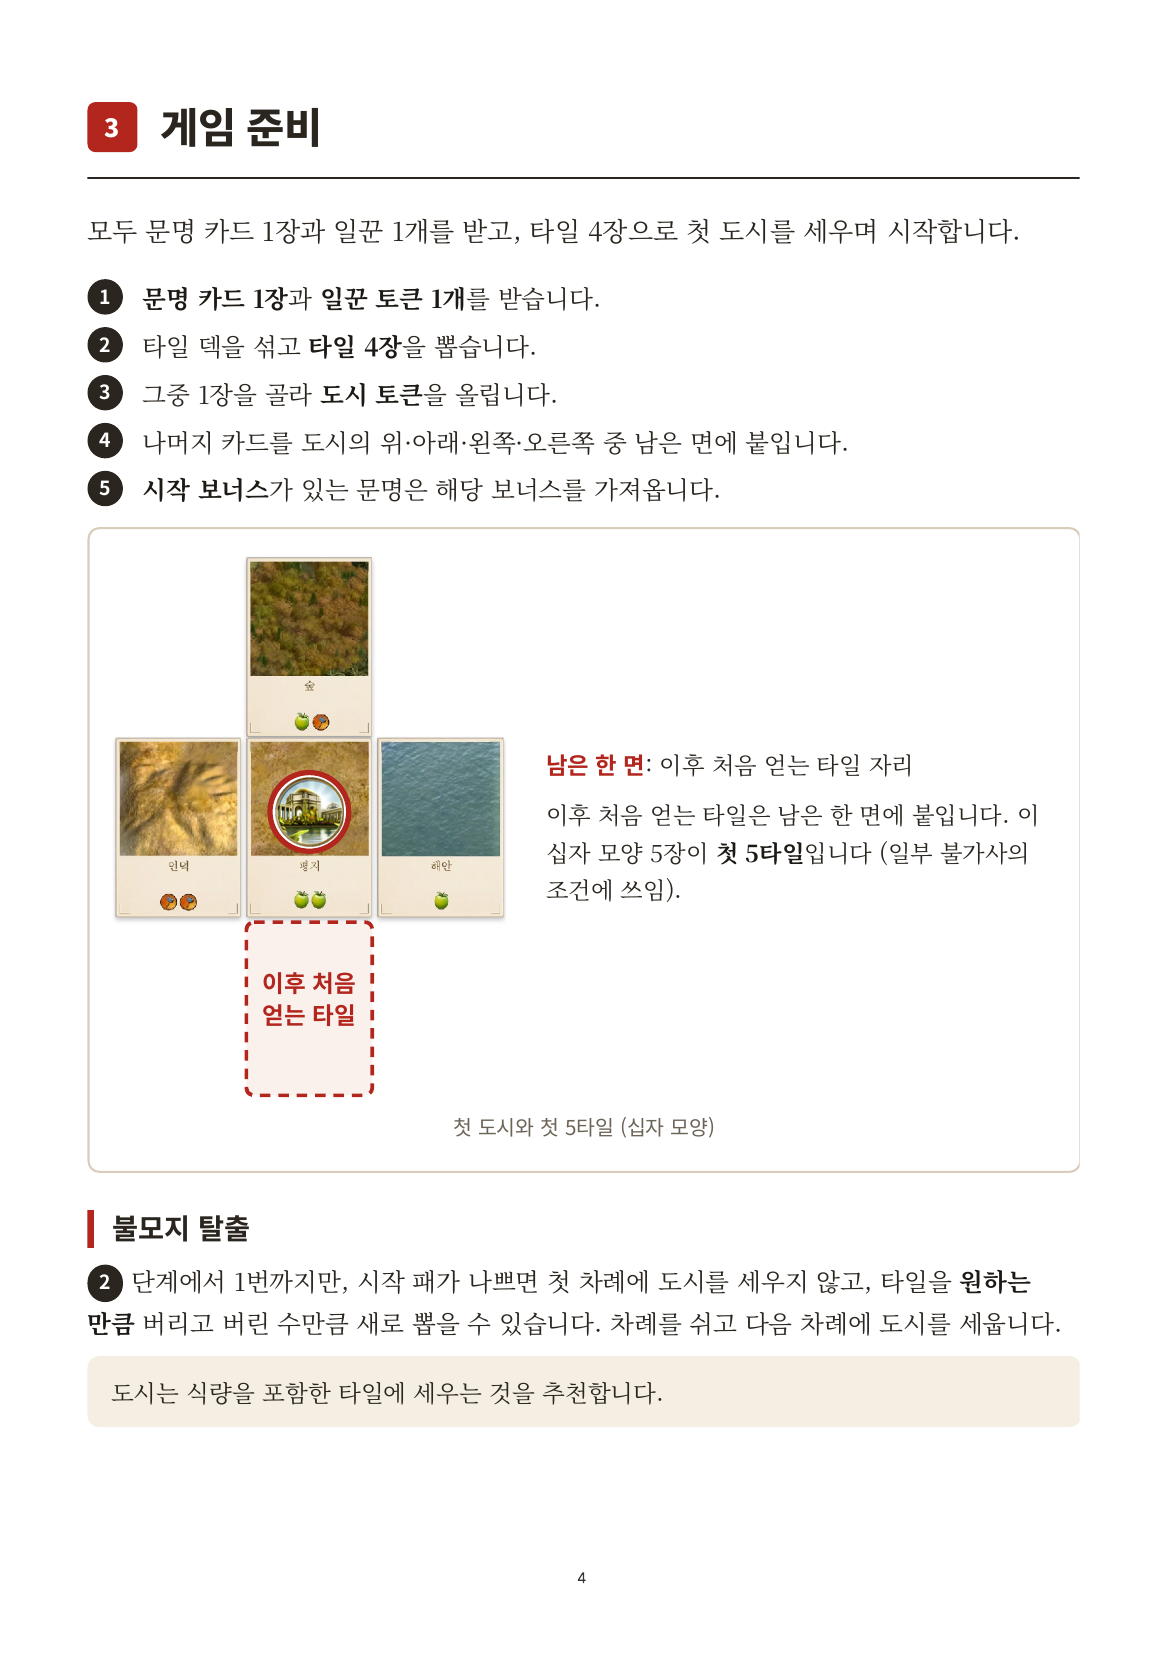
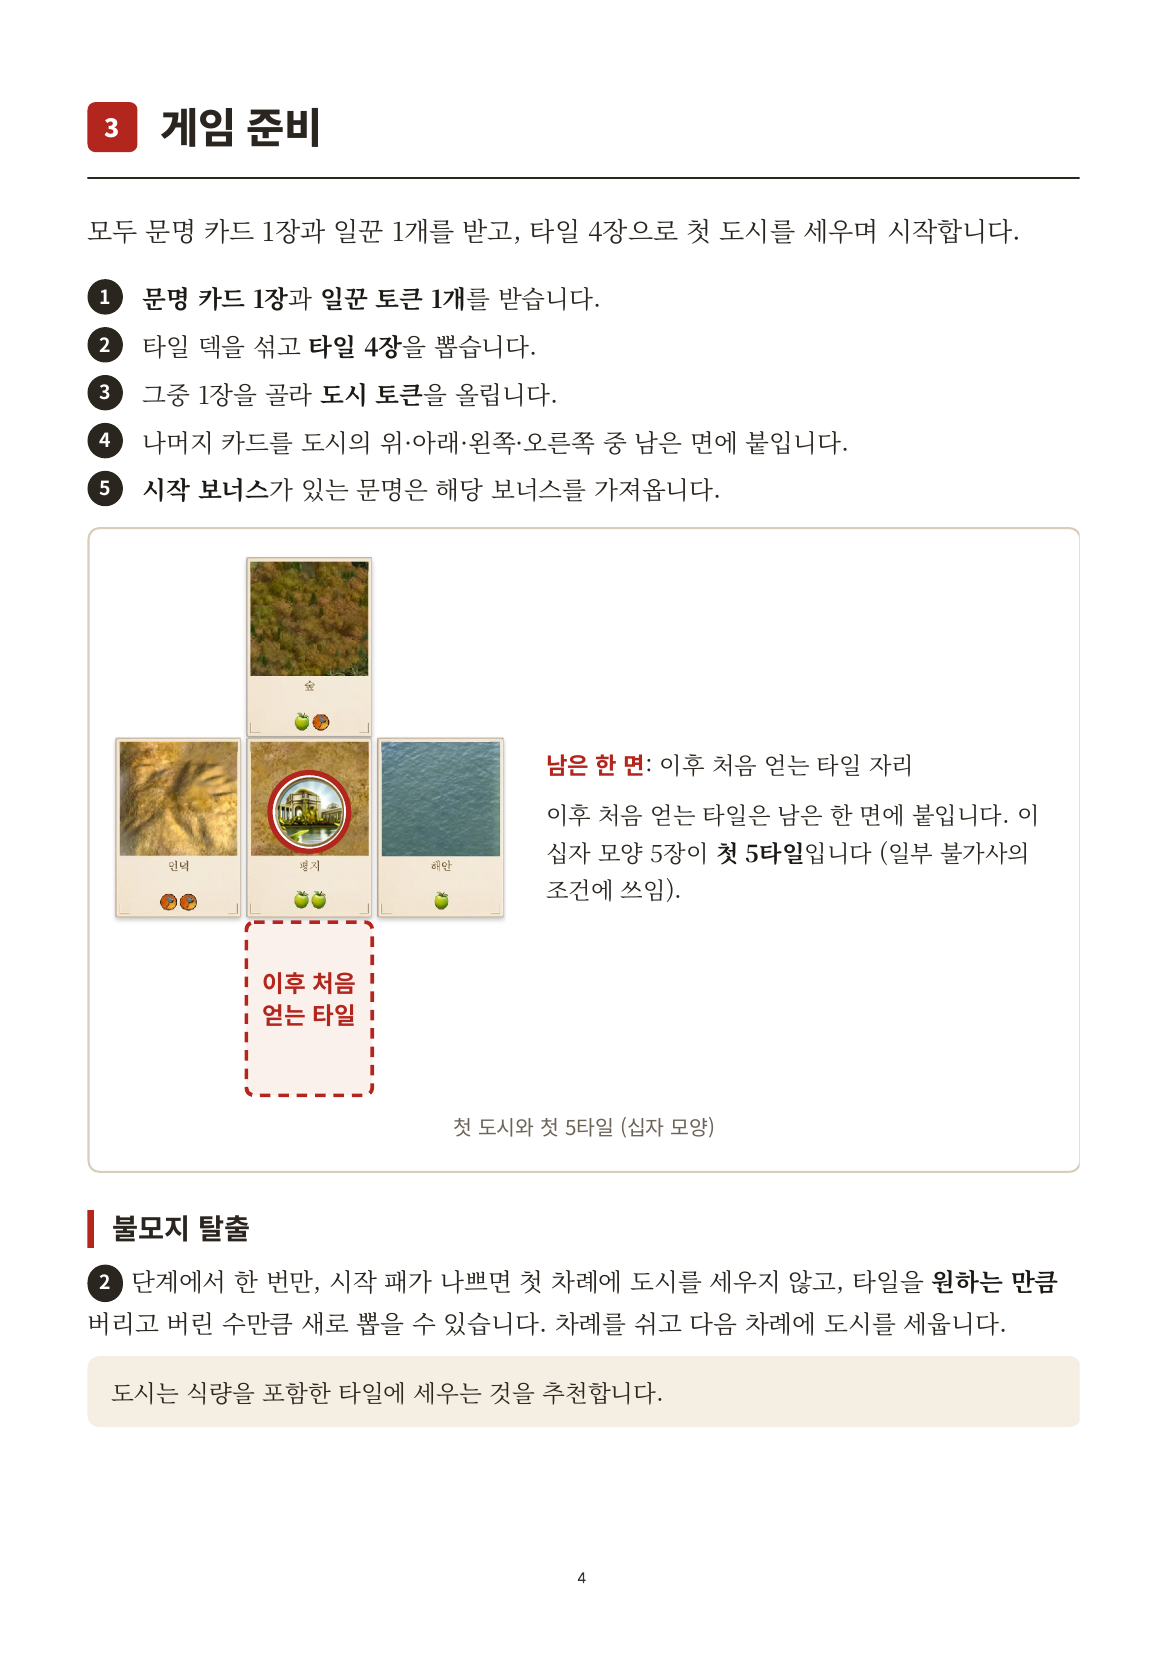
규칙서: 불모지 탈출 '한 번만'으로
Claude-Session: https://claude.ai/code/session_01LEwiRiXRJPjckZxHM1aEbm

Changed region(s): [[0.1851, 0.7713, 0.8946, 0.8022], [0.0925, 0.7713, 0.1542, 0.8022]]

diff --git a/docs/rulebook/source/part1.html b/docs/rulebook/source/part1.html
@@ -109,7 +109,7 @@
   </figure>
 
   <h3>불모지 탈출</h3>
-  <p><span class="stepno">2</span> 단계에서 1번까지만, 시작 패가 나쁘면 첫 차례에 도시를 세우지 않고, 타일을 <b>원하는 만큼</b> 버리고 버린 수만큼 새로 뽑을 수 있습니다. 차례를 쉬고 다음 차례에 도시를 세웁니다.</p>
+  <p><span class="stepno">2</span> 단계에서 한 번만, 시작 패가 나쁘면 첫 차례에 도시를 세우지 않고, 타일을 <b>원하는 만큼</b> 버리고 버린 수만큼 새로 뽑을 수 있습니다. 차례를 쉬고 다음 차례에 도시를 세웁니다.</p>
   <div class="note">도시는 식량을 포함한 타일에 세우는 것을 추천합니다.</div>
 </section>
 
